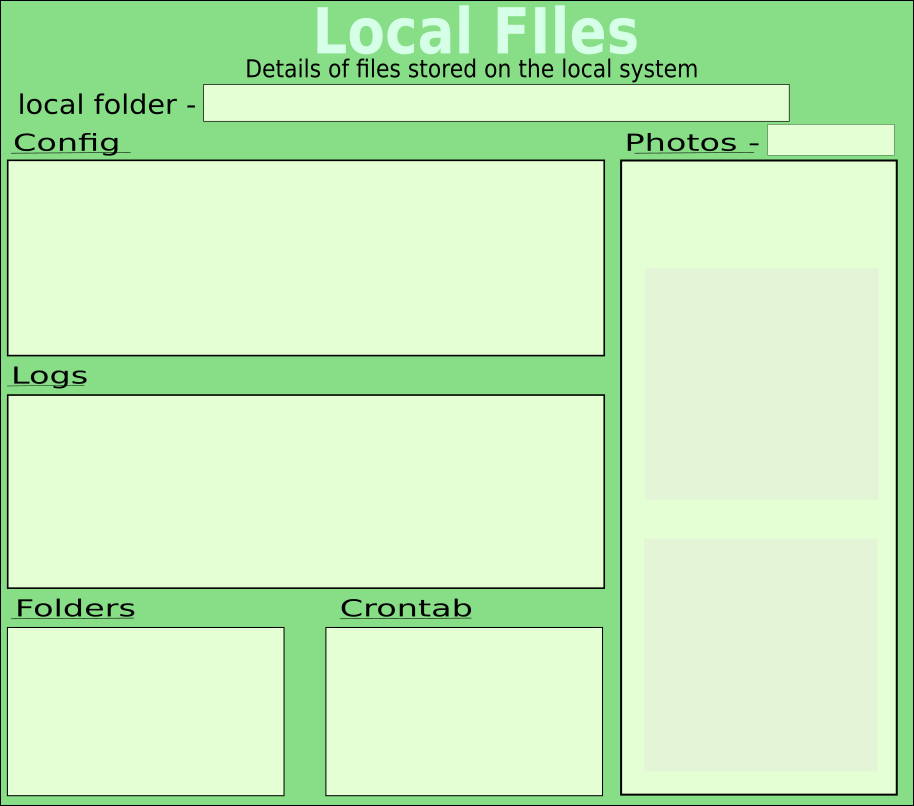
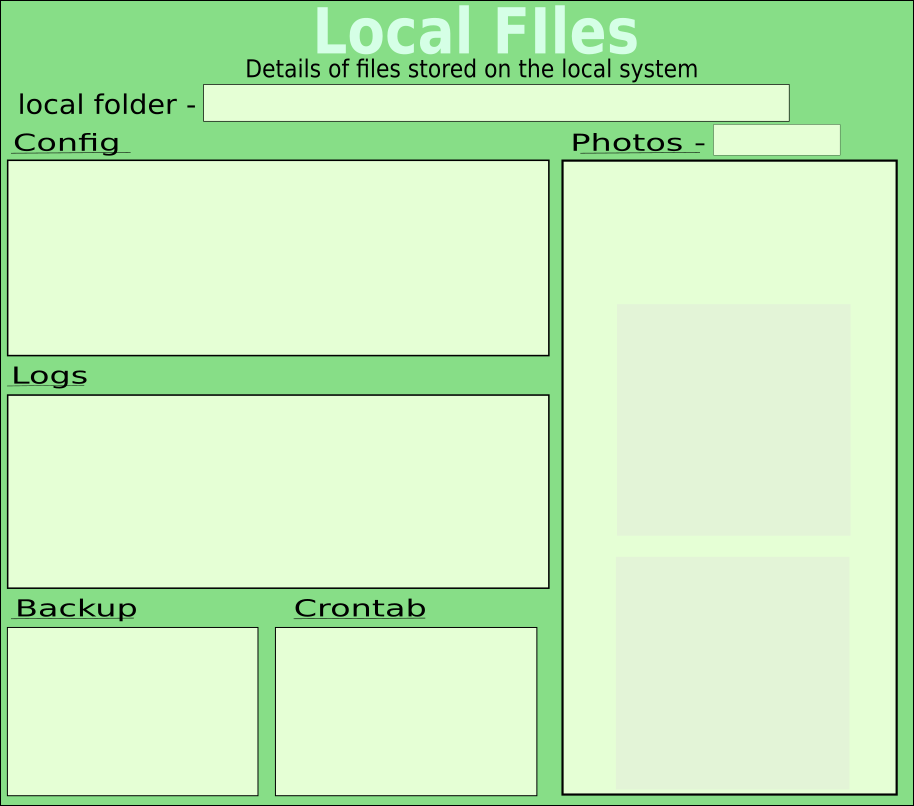
working on download dialogue

diff --git a/scripts/gui/pigrow_remote.py b/scripts/gui/pigrow_remote.py
@@ -1162,22 +1162,22 @@ class localfiles_info_pnl(wx.Panel):
         localfiles_info_pnl.local_path_txt = wx.StaticText(self,  label='local path', pos=(220, 80), size=(200,30))
         #local photo storage info
         localfiles_info_pnl.caps_folder = 'caps'
-        localfiles_info_pnl.folder_text = wx.StaticText(self,  label=' ' + localfiles_info_pnl.caps_folder, pos=(770, 130), size=(200,30))
-        localfiles_info_pnl.photo_text = wx.StaticText(self,  label='photo text', pos=(625, 166), size=(170,30))
-        localfiles_info_pnl.first_photo_title = wx.StaticText(self,  label='first image', pos=(640, 245), size=(170,30))
-        localfiles_info_pnl.last_photo_title = wx.StaticText(self,  label='last image', pos=(640, 520), size=(170,30))
+        localfiles_info_pnl.folder_text = wx.StaticText(self,  label=' ' + localfiles_info_pnl.caps_folder, pos=(720, 130), size=(200,30))
+        localfiles_info_pnl.photo_text = wx.StaticText(self,  label='photo text', pos=(575, 166), size=(170,30))
+        localfiles_info_pnl.first_photo_title = wx.StaticText(self,  label='first image', pos=(575, 290), size=(170,30))
+        localfiles_info_pnl.last_photo_title = wx.StaticText(self,  label='last image', pos=(575, 540), size=(170,30))
         #file list boxes
-        localfiles_info_pnl.config_files = self.config_file_list(self, 1, pos=(5, 160), size=(600, 200))
+        localfiles_info_pnl.config_files = self.config_file_list(self, 1, pos=(5, 160), size=(550, 200))
         localfiles_info_pnl.config_files.Bind(wx.EVT_LIST_ITEM_ACTIVATED, self.onDoubleClick_config)
-        localfiles_info_pnl.logs_files = self.logs_file_list(self, 1, pos=(5, 390), size=(600, 200))
+        localfiles_info_pnl.logs_files = self.logs_file_list(self, 1, pos=(5, 390), size=(550, 200))
         localfiles_info_pnl.logs_files.Bind(wx.EVT_LIST_ITEM_ACTIVATED, self.onDoubleClick_logs)
-        localfiles_info_pnl.config_files = self.config_file_list(self, 1, pos=(5, 160), size=(600, 200))
-        localfiles_info_pnl.config_files.Bind(wx.EVT_LIST_ITEM_ACTIVATED, self.onDoubleClick_config)
+        #localfiles_info_pnl.config_files = self.config_file_list(self, 1, pos=(5, 160), size=(550, 200))
+    #    localfiles_info_pnl.config_files.Bind(wx.EVT_LIST_ITEM_ACTIVATED, self.onDoubleClick_config)
         #cron info text
-        localfiles_info_pnl.cron_info = wx.StaticText(self,  label='cron info', pos=(340, 635), size=(200,30))
+        localfiles_info_pnl.cron_info = wx.StaticText(self,  label='cron info', pos=(290, 635), size=(200,30))
 
     class config_file_list(wx.ListCtrl):
-        def __init__(self, parent, id, pos=(25, 250), size=(600,200)):
+        def __init__(self, parent, id, pos=(25, 250), size=(550,200)):
             wx.ListCtrl.__init__(self, parent, id, size=size, style=wx.LC_REPORT, pos=pos)
             self.InsertColumn(0, 'Filename')
             self.InsertColumn(1, 'date modified')
@@ -1185,11 +1185,11 @@ class localfiles_info_pnl(wx.Panel):
             self.InsertColumn(3, 'updated?')
             self.SetColumnWidth(0, 190)
             self.SetColumnWidth(1, 150)
-            self.SetColumnWidth(2, 160)
+            self.SetColumnWidth(2, 110)
             self.SetColumnWidth(3, 100)
 
     class logs_file_list(wx.ListCtrl):
-        def __init__(self, parent, id, pos=(25, 500), size=(600,200)):
+        def __init__(self, parent, id, pos=(25, 500), size=(550,200)):
             wx.ListCtrl.__init__(self, parent, id, size=size, style=wx.LC_REPORT, pos=pos)
             self.InsertColumn(0, 'Filename')
             self.InsertColumn(1, 'date modified')
@@ -1197,7 +1197,7 @@ class localfiles_info_pnl(wx.Panel):
             self.InsertColumn(3, 'updated?')
             self.SetColumnWidth(0, 190)
             self.SetColumnWidth(1, 150)
-            self.SetColumnWidth(2, 160)
+            self.SetColumnWidth(2, 110)
             self.SetColumnWidth(3, 100)
 
     def draw_photo_folder_images(self, first_pic, last_pic):
@@ -1205,12 +1205,12 @@ class localfiles_info_pnl(wx.Panel):
         first = wx.Image(first_pic, wx.BITMAP_TYPE_ANY)
         first = first.Scale(225, 225, wx.IMAGE_QUALITY_HIGH)
         first = first.ConvertToBitmap()
-        photo_folder_first_pic = wx.StaticBitmap(self, -1, first, (650, 270), (first.GetWidth(), first.GetHeight()))
+        photo_folder_first_pic = wx.StaticBitmap(self, -1, first, (620, 310), (first.GetWidth(), first.GetHeight()))
         # load and display last image
         last = wx.Image(last_pic, wx.BITMAP_TYPE_ANY)
         last = last.Scale(225, 225, wx.IMAGE_QUALITY_HIGH)
         last = last.ConvertToBitmap()
-        photo_folder_last_pic = wx.StaticBitmap(self, -1, last, (650, 545), (last.GetWidth(), last.GetHeight()))
+        photo_folder_last_pic = wx.StaticBitmap(self, -1, last, (620, 565), (last.GetWidth(), last.GetHeight()))
 
     def add_to_config_list(self, name, mod_date, age, update_status):
         localfiles_info_pnl.config_files.InsertStringItem(0, str(name))
@@ -1296,17 +1296,37 @@ class localfiles_ctrl_pnl(wx.Panel):
                     if item == localfiles_info_pnl.caps_folder:
                         caps_files = os.listdir(localfiles_info_pnl.local_path + item)
                         caps_files.sort()
-                        localfiles_info_pnl.first_photo_title.SetLabel(caps_files[0])
-                        localfiles_info_pnl.last_photo_title .SetLabel(caps_files[-1])
-                        caps_message = str(len(caps_files)) + " files locally\n"
+                        caps_message = str(len(caps_files)) + " files locally \n"
+                        #read pi's caps folder
+                        try:
+                            stdin, stdout, stderr = ssh.exec_command("ls /home/" + pi_link_pnl.target_user + "/Pigrow/" + localfiles_info_pnl.caps_folder)
+                            remote_caps = stdout.read().splitlines()
+                        except Exception as e:
+                            print("reading remote caps folder failed; " + str(e))
+                            remote_caps = []
                         if len(caps_files) > 1:
-                            first_date = caps_files[0].split(".")[0].split("_")[-1]
-                            first_date = time.strftime('%Y-%m-%d %H:%M', time.localtime(float(first_date)))
-                            last_date = caps_files[-1].split(".")[0].split("_")[-1]
-                            last_date = time.strftime('%Y-%m-%d %H:%M', time.localtime(float(last_date)))
-                            caps_message += 'first file: ' + str(first_date)
-                            caps_message += '\nlast file: ' + str(last_date)
+                            #lable first and last image with name
+                            localfiles_info_pnl.first_photo_title.SetLabel(caps_files[0])
+                            localfiles_info_pnl.last_photo_title .SetLabel(caps_files[-1])
+                            #determine date range of images
+                            first_date, first_dt = self.filename_to_date(caps_files[0])
+                            last_date, last_dt = self.filename_to_date(caps_files[-1])
+                            caps_message += "  " + str(first_date) + " - " + str(last_date)
+                            length_of_local = last_dt - first_dt
+                            caps_message += '\n     ' + str(length_of_local)
+                            #draw first and last imagess to the screen
                             localfiles_info_pnl.draw_photo_folder_images(MainApp.localfiles_info_pannel, localfiles_info_pnl.local_path + item + "/" + caps_files[0], localfiles_info_pnl.local_path + item + "/" + caps_files[-1])
+                        caps_message += "\n" + str(len(remote_caps)) + " files on Pigrow \n"
+                        if len(remote_caps) > 1:
+                            first_remote, first_r_dt = self.filename_to_date(remote_caps[0])
+                            last_remote, last_r_dt = self.filename_to_date(remote_caps[-1])
+                            caps_message += "  " + str(first_remote) + " - " + str(last_remote)
+                            length_of_remote = last_r_dt - first_r_dt
+                            caps_message += '\n     ' + str(length_of_remote)
+                        else:
+                            caps_message += "no images on Pigrow"
+
+                        #update the caps info pannel with caps message
                         localfiles_info_pnl.photo_text.SetLabel(caps_message)
 
 
@@ -1338,6 +1358,12 @@ class localfiles_ctrl_pnl(wx.Panel):
                     else:
                         localfiles_info_pnl.cron_info.SetLabel("no local cron file")
 
+    def filename_to_date(self, filename):
+        date = float(filename.split(".")[0].split("_")[-1])
+        file_datetime = datetime.datetime.fromtimestamp(date)
+        date = time.strftime('%Y-%m-%d %H:%M', time.localtime(date))
+        return date, file_datetime
+
     def download_click(self, e):
         #show download dialog boxes
         file_dbox = file_download_dialog(None, title='Download dialog box')
@@ -1365,7 +1391,7 @@ class file_download_dialog(wx.Dialog):
         self.cb_all = wx.CheckBox(self, label='Whole Pigrow Folder',pos = (200,120))
         self.current_file_txt = wx.StaticText(self,  label='--', pos=(30, 190))
         #start button
-        self.start_download_btn = wx.Button(self, label='Download files', pos=(20, 250), size=(175, 50))
+        self.start_download_btn = wx.Button(self, label='Download files', pos=(40, 240), size=(175, 50))
         self.start_download_btn.Bind(wx.EVT_BUTTON, self.start_download_click)
          ## universal controls
         pnl = wx.Panel(self)
@@ -1444,6 +1470,7 @@ class file_download_dialog(wx.Dialog):
             sftp.get(remote_file[0], remote_file[1])
             print remote_file[0], remote_file[1]
             self.current_file_txt.SetLabel(remote_file[0] + " --> " + remote_file[1])
+            wx.Yield()
         self.current_file_txt.SetLabel("Done")
         #disconnect the sftp pipe
         sftp.close()
